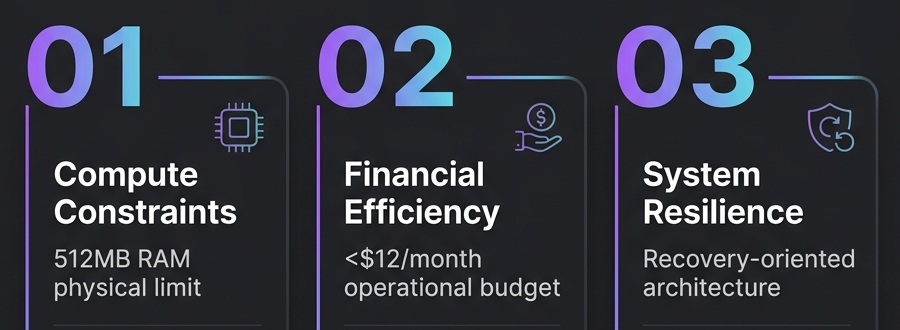
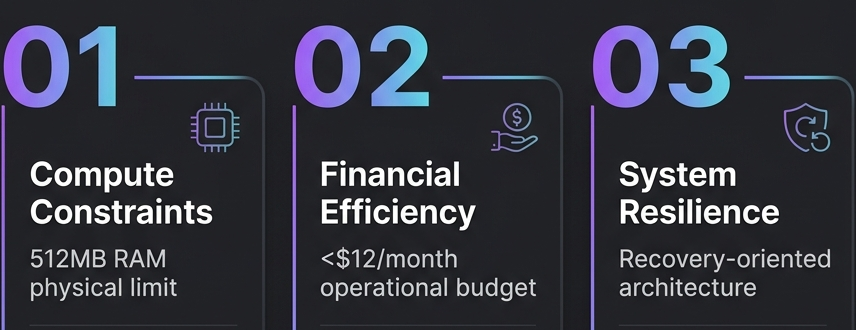
docs: remove horizontal background margins and set image width to 100%

diff --git a/README.md b/README.md
@@ -31,7 +31,7 @@
 본 프로젝트는 초경량/초저가 인프라 환경에서 높은 시스템 안정성을 확보하기 위해 아래와 같은 3대 엔지니어링 제약 조건 및 극복 원칙을 수립하여 설계되었습니다.
 
 <p align="center">
-  <img src="./docs/assets/engineering_principles.png" width="90%" alt="rogic.io Engineering Principles & Constraints" />
+  <img src="./docs/assets/engineering_principles.png" width="100%" alt="rogic.io Engineering Principles & Constraints" />
 </p>
 
 ---